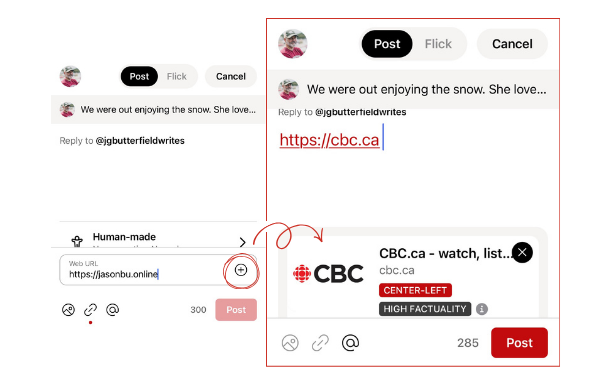
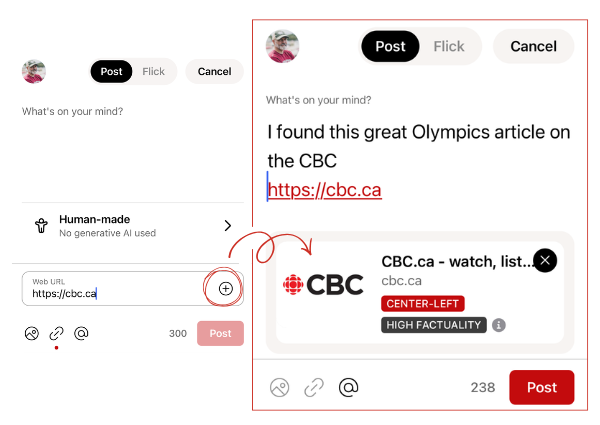
main md updates

diff --git a/docs/how-to.md b/docs/how-to.md
@@ -1,15 +1,12 @@
-# Flight MANEUVERS:
+# FLIGHT MANEUVERS
 
-## Interacting with the Nest
-
----
 
 !!! danger "UNOFFICIAL INTELLIGENCE"
     This guide is maintained by community volunteers. While we aim for accuracy, always cross-reference with [GanderSocial.ca](https://gandersocial.ca).
 
 ---
 
-## The Tramsmission(POSTING)
+## :material-leaf-maple:The Tramsmission(POSTING)
 
 When initiating a new **Honk** (Post), you will see an attribution selector above your keyboard. This ensures your **Honk** carries the correct metadata for the community. There will be other tags for content in the future (so, we hear.)
 
@@ -28,12 +25,13 @@ Transparency is a core mission parameter. By tagging your content correctly, you
 !!! info "Tactical Tip: The Honk Workflow"
     Before you hit **Post**, get into the habit of checking your attribution. It only takes a second to switch between "Human-made" and "AI-generated," but it defines the integrity of your signal in the feed.
 
-## Anatomy of a Honk
+## :material-leaf-maple:Anatomy of a Honk
 A **Honk** is more than just a post; it is a transmission to the Nest. Understanding the engagement markers allows you to amplify high-signal content and join the conversation effectively.
 
 ![Post Interaction Controls](images/thepost.png)
 
 Every Honk in your feed includes specific metadata and interaction points:
+
 * **Author Identity:** Displays the sender's profile image and `@handle`. A red checkmark indicates a verified community signal.
 * **Timestamp:** Shows how long ago the transmission was emitted (e.g., "a day").
 * **Content Area:** The primary payload—text, hashtags (like `#PetTax`), and media (images or video).
@@ -41,6 +39,7 @@ Every Honk in your feed includes specific metadata and interaction points:
 
 ### Engagement
 At the bottom of every Honk, you have four primary ways to interact with the flock:
+
 * **🤍 Likes:** A simple acknowledgment of the signal. Tapping the heart increases the visibility of the transmission within the Nest.
 * **💬 Comment:** Initiate a direct response or start a sub-thread. This is where the deepest community discourse happens.
 * **🔁 Repost / Quote:** * **Repost:** Immediately amplify the signal to your own followers.
@@ -51,14 +50,15 @@ At the bottom of every Honk, you have four primary ways to interact with the flo
 !!! info "The #Hashtag Strategy"
     Using hashtags like `#PetTax` or `#GanderBeta` isn't just for flair—it helps the search transponders categorize your intel so the right members of the flock can find it. And we all know you have to pay the `#PetTax`
 
-## The "Timmies' Rule" (CONVERSATION)
+## :material-leaf-maple:The "Timmies' Rule" (CONVERSATION)
 
 We maintain a "sharing space" rather than a "noise" space.
+
 - **Context is Queen:** If you share a link, add a short briefing above it explaining why it matters.
 - **Thread Hygiene:** When replying, aim to improve the thread rather than inflaming it.
 - **Mentions (@):** Tagging other flyers is an invitation to join the dialogue, not a summons for attention.
 
-## Board Tactics: Curating the Nest
+## :material-leaf-maple:Board Tactics: Curating the Nest
 On Gander, you don't just "Honk" into the void, you organize your intelligence. **Boards** are curated folders that allow you to group transmissions by topic, project, or interest. Unlike a chronological feed, Boards are evergreen and provide a structured way for the flock to explore your content(currently it limited to your visability).
 ![Boards](images/boards.png)
 
@@ -82,13 +82,13 @@ Boards transform your profile from a simple timeline into a library of community
 !!! tip "💡 Tactical Curation"
     Think of Boards like the chapters of a book. Use them to group your best #PetTax photos, your #IndieAuthor updates, or community guides like this one!
 
-## Flicks
+## :material-leaf-maple:Flicks
 
 **Flicks** are Gander’s dedicated sector for short-form, vertical video **Honks**. Whether it’s a quick update from the field or a deep-dive report, Flicks allow you to share high-impact visual intel with the flock.
 
   ![Flicks Interface](images/add-flick.png)
 
-### 🎥 Flicks Parameters
+### Flicks Parameters
 To maintain signal quality and viewer engagement, Flicks must adhere to the following duration protocols:
 * **Short Bursts (15 Seconds):** Ideal for quick "Pet Tax" check-ins, atmospheric captures, or rapid-fire alerts.
 * **Deep Dives (Up to 3 Minutes):** Perfect for cinematic storytelling, technical tutorials, or detailed mission briefings. 

diff --git a/docs/getting-started.md b/docs/getting-started.md
@@ -8,7 +8,7 @@
 
 ## JOINING THE FORMATION
 
-### Visual Identity
+### :material-leaf-maple:Visual Identity
 
 Your profile is your digital transponder in the Nest. Understanding these interface markers will help you navigate your own identity and engage with other members of the flock.
 
@@ -36,7 +36,7 @@ The bottom navigation bar is your primary tool for moving through Gander's secto
 !!! tip "💡 TACTICAL TIP: POSTS VS. BOARDS"
     Just above the navigation bar, you can toggle between your **Honks (Posts)** and your **Boards**. While Honks are your chronological transmissions, **Boards** are curated folders where you can organize intel by topic for others to explore (coming soon).
 
-### The Display Name VS Handle
+### :material-leaf-maple:The Display Name VS Handle
 
 In the Nest, your identity is split into two distinct layers. Understanding the difference is key to navigating the AT Protocol.
 
@@ -50,7 +50,7 @@ In the Nest, your identity is split into two distinct layers. Understanding the 
 
 ![Profile Interface](images/edit-gander-profile.png)
 
-### Security & Recovery
+### :material-leaf-maple:Security & Recovery
 
 Managing your transponder settings is critical for maintaining your presence in the Nest. Access these by tapping the **Gear Icon** on your profile.
 
@@ -59,24 +59,46 @@ Managing your transponder settings is critical for maintaining your presence in 
 #### Account Commands
 
 Navigate to **Settings → Account settings** to manage your core credentials:
+
 * **Email Management:** View or update the primary contact address associated with your flock identity.
 * **Username (Handle):** View your current `@handle.gander.social`. *Note: Changing this may affect how others find you on the AT Protocol.*
 * **Password Control:** Initiate a secure reset of your access codes.
 
 #### Data Privacy
 Gander emphasizes user sovereignty. In the **Data privacy** section, you have full control over your footprint:
+
 * **Export My Data:** Download a complete archive of your transmissions, media, and social graph.
 * **Deactivate Account:** Temporarily silence your signal. Your data remains on the server but is hidden from the public feed.
 * **Delete Account:** Permanent termination of your identity and deletion of your data from the AT Protocol instance.
 
 #### Operational Oversight
 The main Settings menu provides access to further mission-critical sectors:
+
 * **Moderation:** Configure your content filters and manage blocked signals to keep your feed clean.
 * **Content and Media:** Adjust how the Nest renders images and video to optimize for your current bandwidth.
 * **Get Help / Legal:** Access official briefing documents and report technical "Signal Drift" to the dev team.
 
-!!! info "MISSION LOGOUT"
+!!! warning "MISSION LOGOUT"
     To safely exit the app, use the **Sign out** command at the bottom of the Settings menu. Ensure you have your credentials saved, as the Nest requires a fresh handshake for every new session.
+
+---
+
+## :material-leaf-maple:Content & Media Preferences
+
+Your experience in the Nest is customizable. Within the **Content and media** sector of your settings, you can toggle how the app handles transparency labels and third-party intel.
+
+### Transperancy Toggles
+
+Navigate to **Settings → Content and media** to adjust your viewing parameters:
+
+* **Show labeled AI content:** * **ON:** Displays posts that creators have tagged as AI-generated. 
+    * **OFF:** Silences transmissions with synthetic metadata, prioritizing purely human-made signal in your feed.
+
+* **Show bias + fact-check ratings:** * **ON:** Displays third-party media bias and factuality labels on link previews (e.g., CBC ratings). 
+    * **OFF:** Hides these labels for a cleaner, marker-free interface.
+
+!!! info "The Verification Philosophy"
+    Gander defaults these settings to **ON** to support the "Truth & Transparency" mission. Disabling these markers reduces your available intelligence on external links and synthetic content.
 
 ---
 

diff --git a/docs/transparency.md b/docs/transparency.md
@@ -1,31 +1,44 @@
 # 🛡 TRUTH & TRANSPARENCY PROTOCOLS
 
-!!! warning "INTELLIGENCE OBJECTIVE"
-    Gander Social is architected to respect data privacy by default and curb algorithmic chaos. These tools are the primary defenses against disinformation.
+---
+
+!!! danger "UNOFFICIAL INTELLIGENCE"
+    This guide is maintained by community volunteers. While we aim for accuracy, always cross-reference with [GanderSocial.ca](https://gandersocial.ca).
 
 ---
 
-## MEDIA FACT CHECK INTEGRATION
+## :material-leaf-maple:MEDIA VERIFICATION
 
-One of Gander's most powerful tools is the integrated link preview system.
+Gander is designed to combat misinformation by providing real-time context for external links. When you share a news article or website, the "Truth Transponder" automatically pulls data to help the flock assess the signal quality. When you post a link this way, the system checks the source against `mediafactcheck.com`.
+
 ![Web Preview with Fact Check](images/web-posting.png)
 
-- **Verification:** When you post a link, the system checks the source against `mediafactcheck.com`.
-- **Context Tags:** Preview cards may display bias ratings or fact-check results directly on the post.
-- **Operational Tip:** A link without commentary is noise; always provide your own briefing to add value to the link's context.
+### The Link Preview
 
-## AUTHORSHIP DISCLOSURE (AI TAGS)
+When you paste a URL (like `https://cbc.ca`) into a new **Honk**, Gander generates a smart preview card with two critical verification markers:
 
-To maintain the integrity of the "Nest," transparency regarding how content is created is vital.
-![AI Transparency Settings](images/settings-contentmedia.png)
+* **Bias Rating:** A visual indicator of the source's political leanings (e.g., **CENTER-LEFT**). This helps the flock understand the likely perspective of the coverage.
+* **Factuality Score:** A rating of the source's track record for accuracy (e.g., **HIGH FACTUALITY**). 
 
-- **Human-Made:** This tag signifies no generative AI was used in the creation of the content.
-- **AI-Generated:** Use this tag if generative AI tools assisted in the creation.
-- **Signaling Trust:** This is not about policing creativity, but about signaling authorship so readers can understand the context.
+### How to deploy a varified link
 
-## DIGITAL SOVEREIGNTY
+1.  **Paste the URL:** Enter the web address directly into the post composer.
+2.  **Activate the Preview:** Tap the **(+)** icon next to the URL input field to generate the verification card.
+3.  **Review the Intel:** Before hitting **Post**, check the bias and factuality markers to ensure you are sharing a high-quality signal.
+4.  **Add Context:** You can still add your own text and hashtags (like #News) above the link to provide your tactical perspective.
 
-As a community-led hub, we all value where our data lives.
+!!! info "Operational Transparency"
+    The little **(i)** icon next to the factuality score provides a deeper dive into how the rating was determined. Gander uses independent third-party data to ensure these ratings remain neutral and objective.
 
-- **Canadian Servers:** All Gander data is hosted on sovereign Canadian servers (via ThinkOn), protected by Canadian laws.
-- **The AT Protocol:** Gander is built on the same open, decentralized foundation as Bluesky, ensuring you aren't locked into a "surveillance-based" system.
+---
+
+!!! tip "TACTICAL TIP: SIGNAL VS. NOISE"
+If a link generates a **LOW FACTUALITY** or **EXTREME BIAS** warning, it doesn't mean you can't post it—it just means the flock will see that metadata. This empowers everyone to make their own informed decisions about the intelligence being shared.
+
+---
+
+!!! danger "UNOFFICIAL BRIEFING"
+    Data based on Release 1.0.1 (109).
+    This is community-observed intelligence.
+
+---
